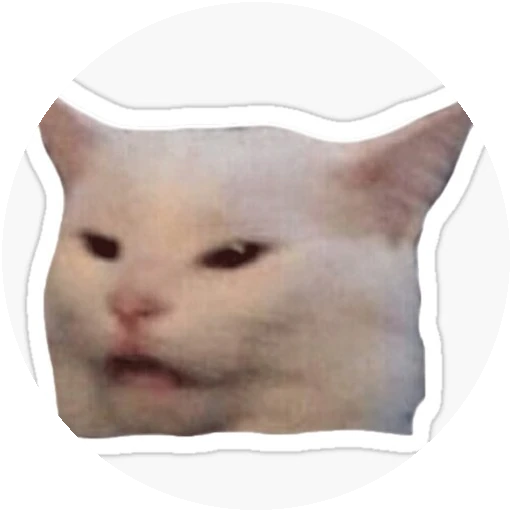
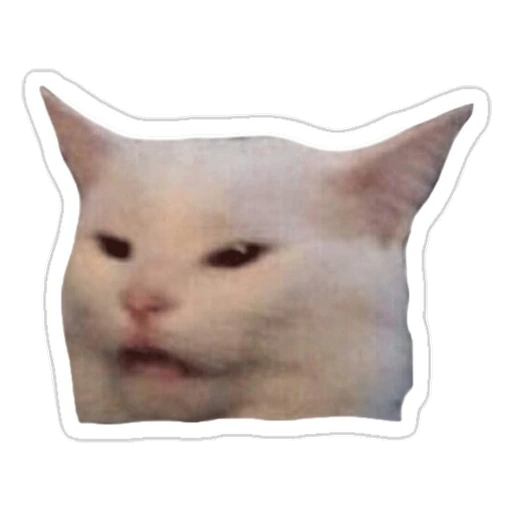
Use provided and generated face cutouts

Changed region(s): [[0.0312, 0.125, 0.9688, 0.9062], [0.375, 0.4688, 0.4375, 0.5312], [0.5312, 0.7188, 0.5625, 0.75]]

diff --git a/docs/product/prototypes/garbo/meme-cat-picker.css b/docs/product/prototypes/garbo/meme-cat-picker.css
@@ -37,8 +37,8 @@ input::placeholder { color: #988a77; }
 .cutout-panel { margin-top: 25px; }
 h1 { margin: 0 0 17px; font: 400 clamp(27px, 4vw, 34px)/1.1 var(--display); }
 .cutout-options { display: grid; grid-template-columns: repeat(5, minmax(0, 1fr)); gap: clamp(12px, 3vw, 22px); }
-.cutout-option { position: relative; display: block; width: 100%; aspect-ratio: 1; overflow: hidden; border: 2px solid rgba(243, 230, 208, .17); border-radius: 50%; padding: 0; background: var(--panel); cursor: pointer; transition: transform .15s ease, border-color .15s ease, opacity .15s ease, box-shadow .15s ease; }
-.cutout-option img { display: block; width: 100%; height: 100%; border-radius: 50%; object-fit: cover; }
+.cutout-option { position: relative; display: block; width: 100%; aspect-ratio: 1; overflow: hidden; border: 1px solid rgba(243, 230, 208, .17); border-radius: 12px; padding: 5px; background: var(--panel); cursor: pointer; transition: transform .15s ease, border-color .15s ease, opacity .15s ease, box-shadow .15s ease; }
+.cutout-option img { display: block; width: 100%; height: 100%; object-fit: contain; }
 .cutout-option:hover:not(:disabled) { transform: translateY(-2px); border-color: rgba(231, 189, 116, .75); }
 .cutout-option:disabled { cursor: default; opacity: .48; }
 .cutout-option.is-selected { border-color: var(--gold); box-shadow: 0 0 0 2px rgba(231, 189, 116, .2); }

diff --git a/public-site/garbo/prototype/meme-cat-picker.css b/public-site/garbo/prototype/meme-cat-picker.css
@@ -37,8 +37,8 @@ input::placeholder { color: #988a77; }
 .cutout-panel { margin-top: 25px; }
 h1 { margin: 0 0 17px; font: 400 clamp(27px, 4vw, 34px)/1.1 var(--display); }
 .cutout-options { display: grid; grid-template-columns: repeat(5, minmax(0, 1fr)); gap: clamp(12px, 3vw, 22px); }
-.cutout-option { position: relative; display: block; width: 100%; aspect-ratio: 1; overflow: hidden; border: 2px solid rgba(243, 230, 208, .17); border-radius: 50%; padding: 0; background: var(--panel); cursor: pointer; transition: transform .15s ease, border-color .15s ease, opacity .15s ease, box-shadow .15s ease; }
-.cutout-option img { display: block; width: 100%; height: 100%; border-radius: 50%; object-fit: cover; }
+.cutout-option { position: relative; display: block; width: 100%; aspect-ratio: 1; overflow: hidden; border: 1px solid rgba(243, 230, 208, .17); border-radius: 12px; padding: 5px; background: var(--panel); cursor: pointer; transition: transform .15s ease, border-color .15s ease, opacity .15s ease, box-shadow .15s ease; }
+.cutout-option img { display: block; width: 100%; height: 100%; object-fit: contain; }
 .cutout-option:hover:not(:disabled) { transform: translateY(-2px); border-color: rgba(231, 189, 116, .75); }
 .cutout-option:disabled { cursor: default; opacity: .48; }
 .cutout-option.is-selected { border-color: var(--gold); box-shadow: 0 0 0 2px rgba(231, 189, 116, .2); }
